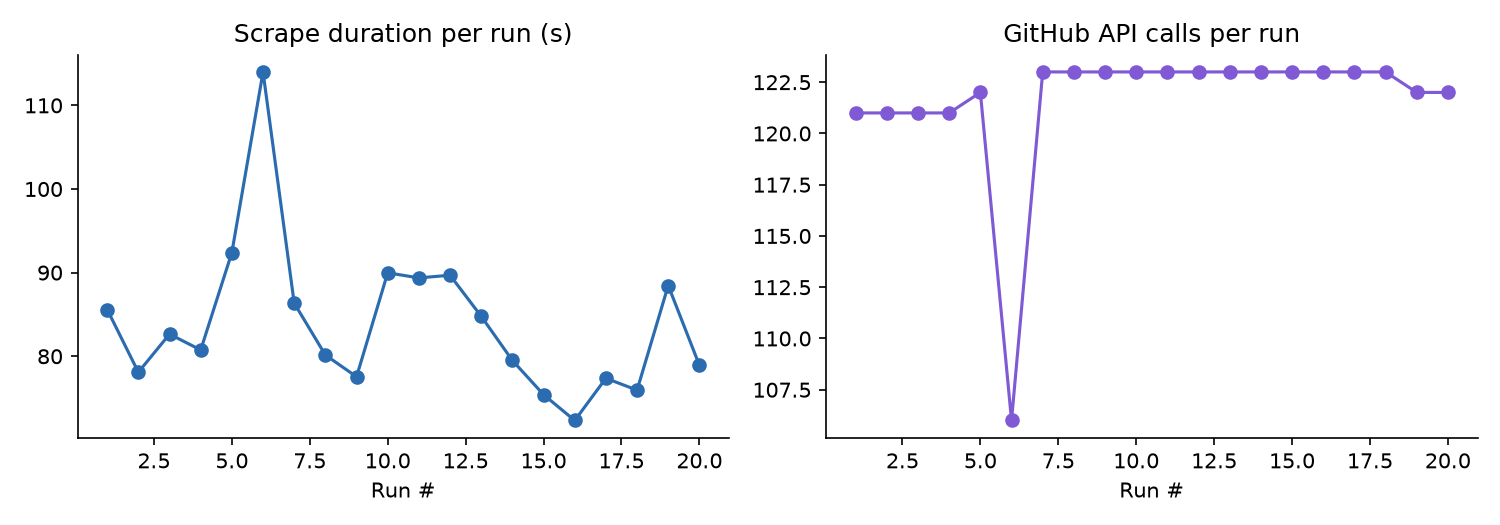
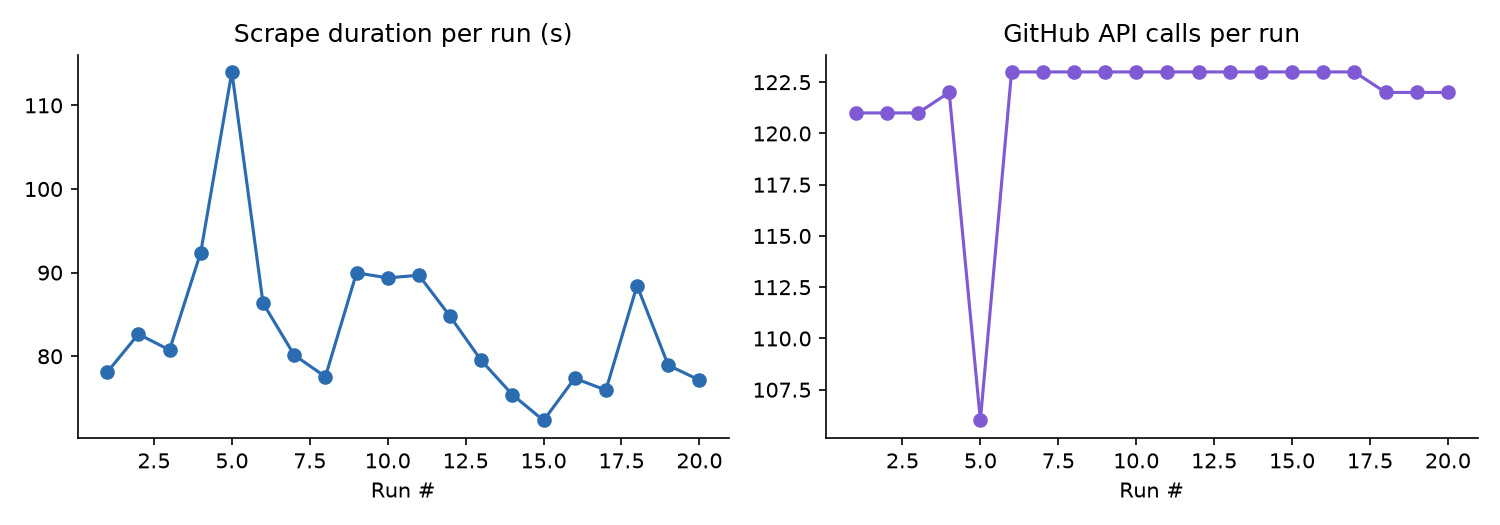
Weekly issue tracker refresh

diff --git a/README.md b/README.md
@@ -81,7 +81,7 @@ See [CONTRIBUTING.md](CONTRIBUTING.md) for the full contributor workflow — inc
 
 <!-- TRACKER:START -->
 
-_Last updated: 2026-10-24 19:44 UTC_
+_Last updated: 2026-10-24 21:55 UTC_
 
 _Tracking **18** upstream repos, **376** relevant open issues._
 
@@ -105,10 +105,10 @@ _Tracking **18** upstream repos, **376** relevant open issues._
 | Score | Issue | Labels | Comments | Updated |
 |---|---|---|---|---|
 | ★★★☆☆ | [#1038](https://github.com/GoogleCloudPlatform/opentelemetry-operations-go/issues/1038) Disabling the normalizer breaks unknown metrics | bug, priority: p2 | 0 | 2025-05-20 |
-| ★★★☆☆ | [#947](https://github.com/GoogleCloudPlatform/opentelemetry-operations-go/issues/947) Implement sum of squared deviations for exponential histograms | enhancement, priority: p2 | 0 | 2024-12-03 |
+| ★★★☆☆ | [#705](https://github.com/GoogleCloudPlatform/opentelemetry-operations-go/issues/705) Consider using gorelease to prevent unwanted breaking changes. | enhancement, priority: p3, enhancement accepted | 0 | 2024-07-29 |
 | ★★☆☆☆ | [#912](https://github.com/GoogleCloudPlatform/opentelemetry-operations-go/issues/912) Dependency Dashboard | priority: p3, dependencies | 0 | 2026-10-24 |
 | ★★☆☆☆ | [#1039](https://github.com/GoogleCloudPlatform/opentelemetry-operations-go/issues/1039) Cloud Trace does not display error span status description | bug, priority: p3, Blocked | 4 | 2025-06-02 |
-| ★★☆☆☆ | [#654](https://github.com/GoogleCloudPlatform/opentelemetry-operations-go/issues/654) WAL does not support multiple exporters | enhancement, priority: p2 | 2 | 2024-11-11 |
+| ★★☆☆☆ | [#706](https://github.com/GoogleCloudPlatform/opentelemetry-operations-go/issues/706) Consider using dependabot to keep up-to-date with repositories we depend on | enhancement, priority: p2 | 1 | 2024-08-28 |
 | ★☆☆☆☆ | [#1099](https://github.com/GoogleCloudPlatform/opentelemetry-operations-go/issues/1099) Migrate googleclientauth extension to use credentials.DetectDefault | — | 1 | 2026-01-26 |
 | ★☆☆☆☆ | [#1068](https://github.com/GoogleCloudPlatform/opentelemetry-operations-go/issues/1068) Duplicate label key encountered service_name on trace metrics | — | 22 | 2025-09-29 |
 | ★☆☆☆☆ | [#1017](https://github.com/GoogleCloudPlatform/opentelemetry-operations-go/issues/1017) Client metrics for cross-project GCS traffic | — | 6 | 2025-02-19 |
@@ -298,7 +298,7 @@ _Tracking **18** upstream repos, **376** relevant open issues._
 
 <!-- METRICS:START -->
 
-_Last run: 2026-10-24 19:43 UTC, took **78.9s**, **122** GitHub API calls, **4878/5000** rate limit remaining._
+_Last run: 2026-10-24 21:54 UTC, took **77.2s**, **122** GitHub API calls, **4878/5000** rate limit remaining._
 
 ![Scrape metrics trend](assets/metrics_trend.png)
 
